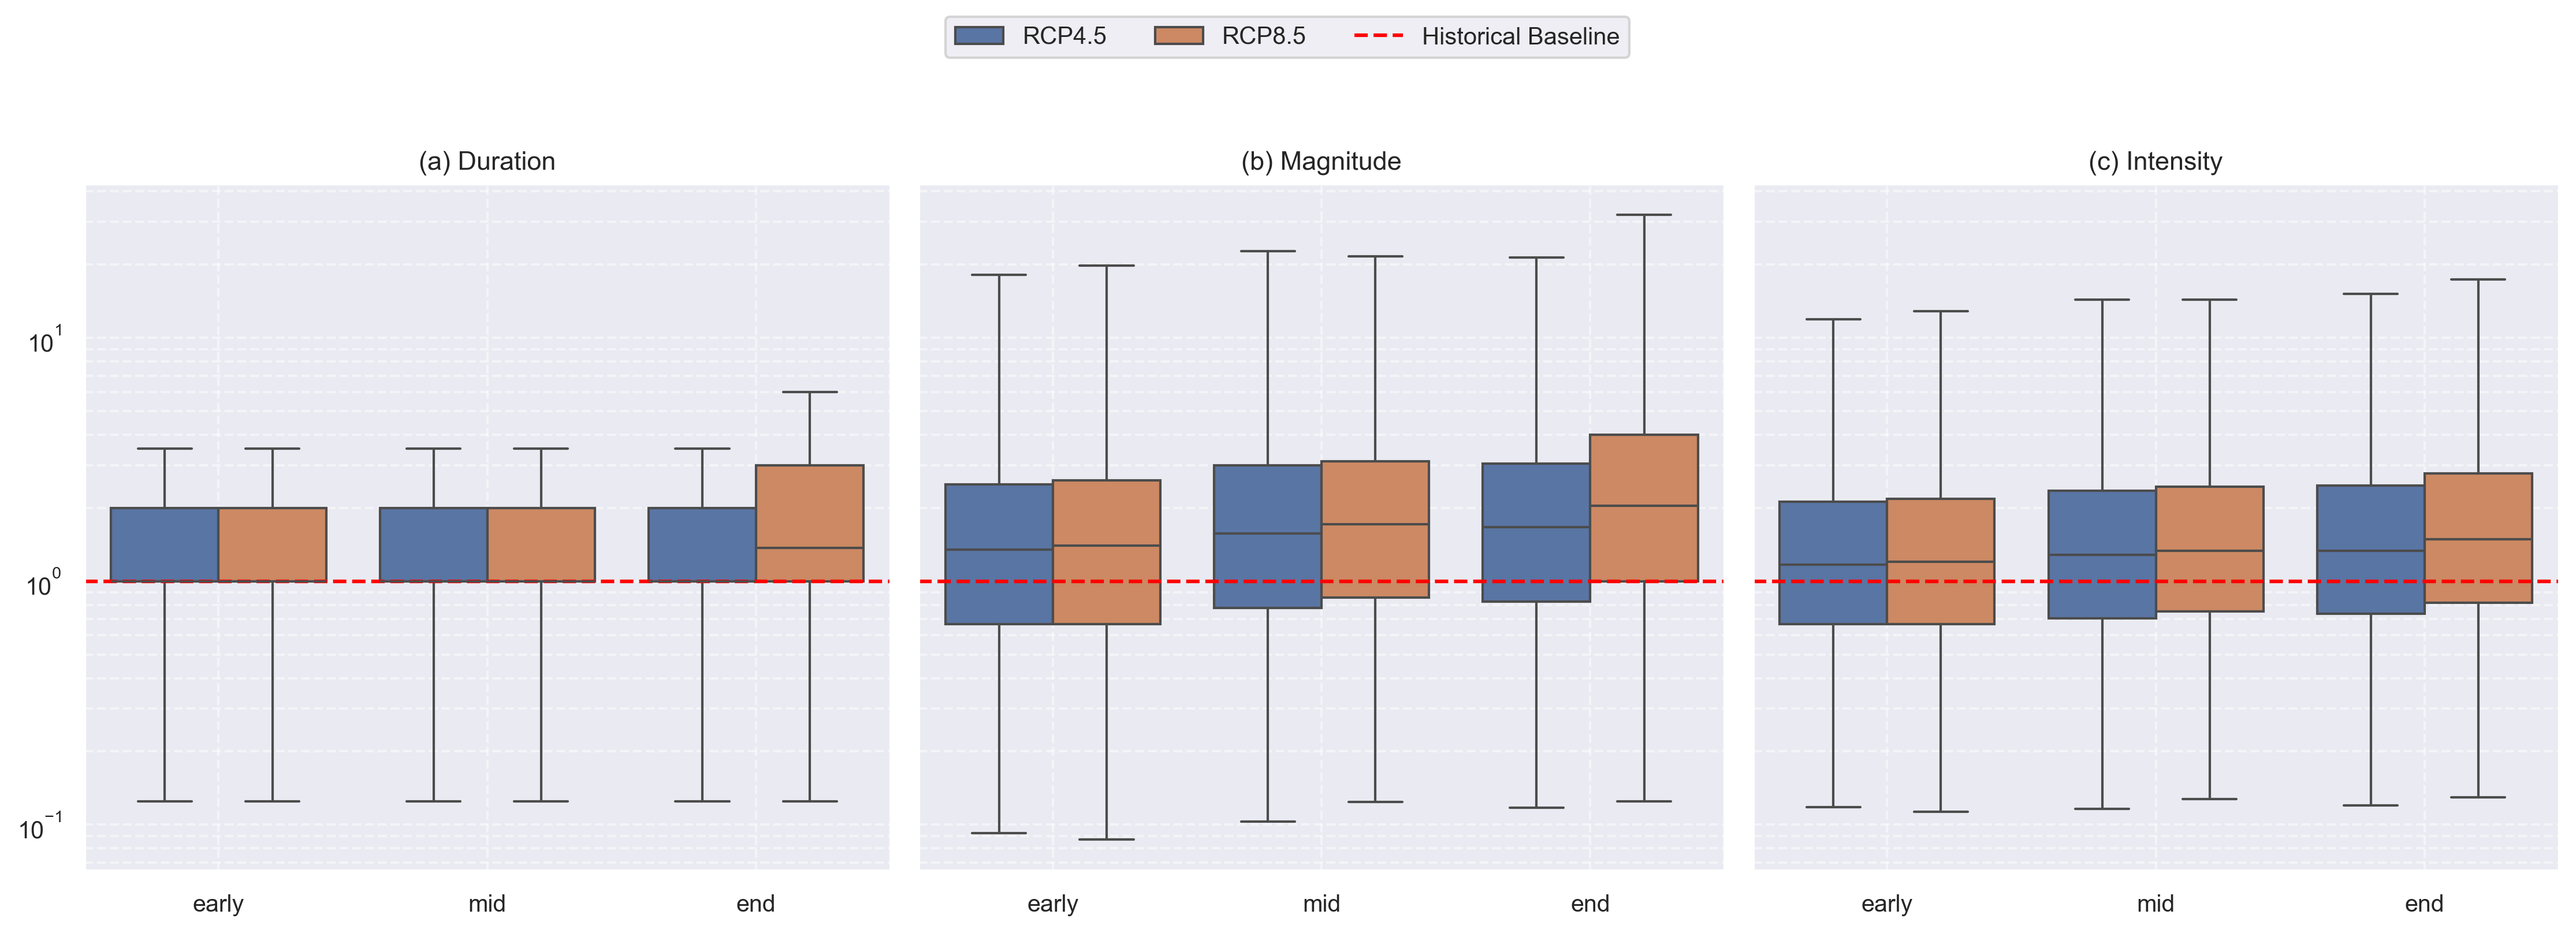
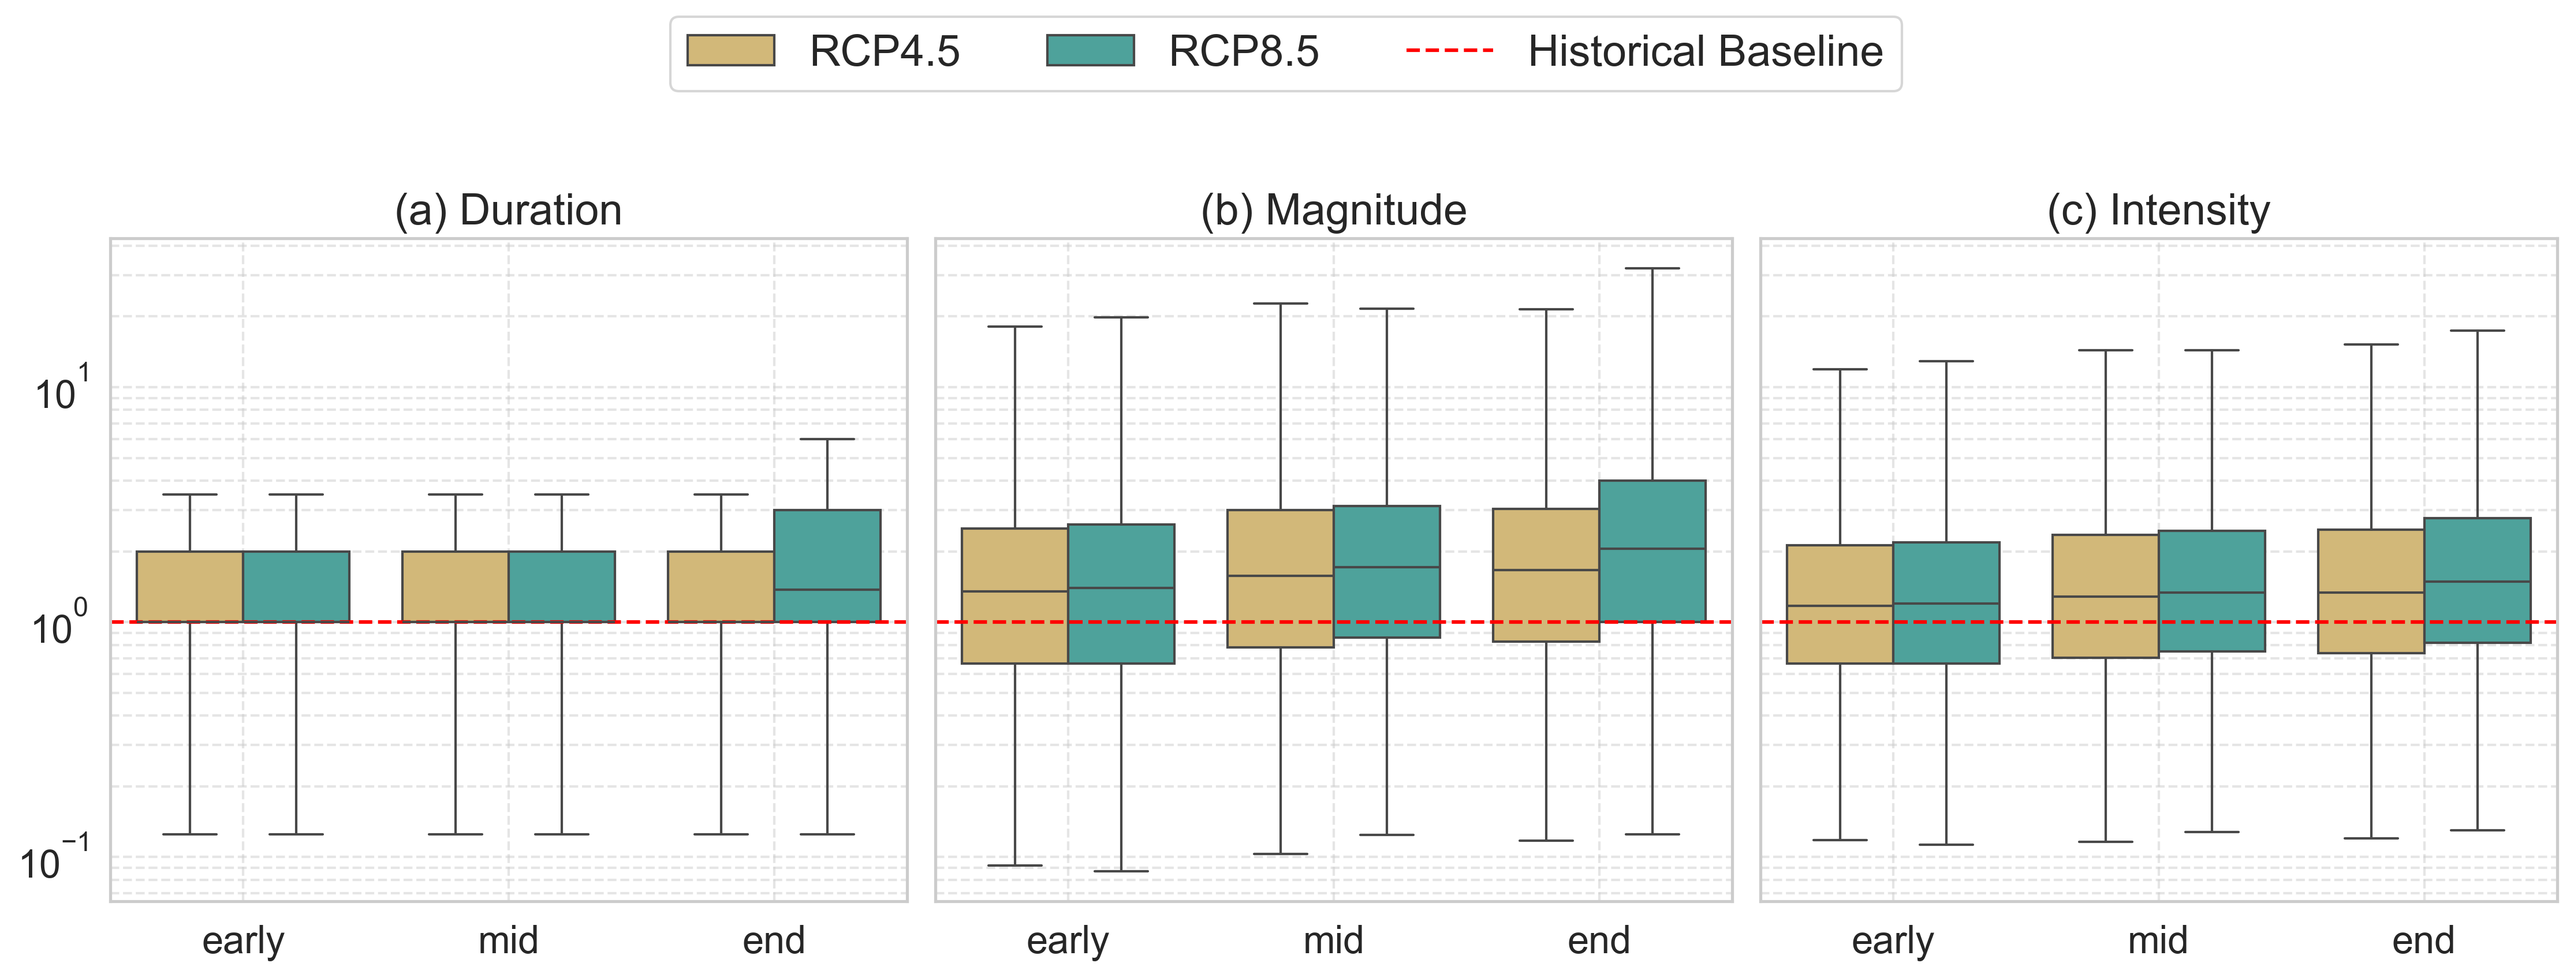
CB palette and improved readability

diff --git a/Scripts/06_plot_from_summaries.py b/Scripts/06_plot_from_summaries.py
@@ -76,11 +76,13 @@ def plot_flood_metric_by_time(df, save_path=None,  dpi =300):
     all_handles = []
     all_labels = []
 
+    palette = {'RCP4.5': '#e1be6a', 'RCP8.5': '#40b0a6'}
+
     for i, (ax, (metric, ylabel)) in enumerate(zip(axes, metrics)):
         # Create boxplot (legend is created here temporarily)
         sns.boxplot(
             data=df, x='time_period', y=metric, hue='scenario',
-            ax=ax, showfliers=False, dodge=True
+            ax=ax, showfliers=False, dodge=True, palette=palette
         )
 
         # Add baseline line
@@ -105,13 +107,15 @@ def plot_flood_metric_by_time(df, save_path=None,  dpi =300):
         ax.set_yscale('log')
         ax.set_xlabel('')
         ax.set_ylabel('')
-        ax.set_title(['(a) Duration', '(b) Magnitude', '(c) Intensity'][i])
+        ax.set_title(['(a) Duration', '(b) Magnitude', '(c) Intensity'][i], fontsize = 18)
         ax.grid(True, which='both', linestyle='--', alpha=0.5)
+        ax.tick_params(axis='x', labelsize=16)
+        ax.tick_params(axis='y', labelsize=16)
 
     # axes[-1].set_xlabel('Time Period')
 
     # Add the one shared global legend
-    fig.legend(all_handles, all_labels, loc='lower center', bbox_to_anchor=(0.5, 1.01), ncol=4, fontsize=10)
+    fig.legend(all_handles, all_labels, loc='lower center', bbox_to_anchor=(0.5, 1.01), ncol=4, fontsize=14)
 
     plt.tight_layout(rect=[0, 0, 1, 0.95])  # Leave space for legend
     
@@ -154,7 +158,8 @@ def plot_flood_metrics_by_season(df, save_path=None,  dpi =300):
     })
 
     # Set up subplots: 3 rows (metrics) x 4 cols (seasons)
-    fig, axes = plt.subplots(3, 4, figsize=(20, 12), sharey='row')
+    fig, axes = plt.subplots(3, 4, figsize=(20, 12), sharey='row', sharex = True)
+    palette = {'RCP4.5': '#e1be6a', 'RCP8.5': '#40b0a6'}
 
     for row_idx, (metric, ylabel) in enumerate(metrics):
         for col_idx, season in enumerate(season_order):
@@ -168,7 +173,7 @@ def plot_flood_metrics_by_season(df, save_path=None,  dpi =300):
                 hue='scenario',
                 ax=ax,
                 showfliers=False,
-                dodge=True
+                dodge=True, palette=palette
             )
 
             ax.axhline(1, color='red', linestyle='--', label='Historical Baseline')
@@ -177,7 +182,7 @@ def plot_flood_metrics_by_season(df, save_path=None,  dpi =300):
 
             # Labeling
             if col_idx == 0:
-                ax.set_ylabel(ylabel)
+                ax.set_ylabel(ylabel, fontsize =16)
             else:
                 ax.set_ylabel('')
 
@@ -187,7 +192,7 @@ def plot_flood_metrics_by_season(df, save_path=None,  dpi =300):
                 ax.set_xlabel('')
 
             if row_idx == 0:
-                ax.set_title(f'{season}')
+                ax.set_title(f'{season}', fontsize =16)
 
             # Remove subplot legends
             if ax.get_legend():
@@ -241,7 +246,7 @@ srex_with_flood_metrics = srex_gdf.merge(flood_region_summary, on=['Name'], how=
 
 # Plot settings
 vmin, vmax = 0.5, 2.5
-cmap = 'inferno_r'
+cmap = 'plasma_r'
 scenarios = flood_region_summary['scenario'].unique()
 
 fig, axes = plt.subplots(3, len(scenarios), figsize=(16, 9),
@@ -453,11 +458,13 @@ def plot_drought_metric_by_time(df, save_path=None, dpi =300):
     all_handles = []
     all_labels = []
 
+    palette = {'RCP4.5': '#e1be6a', 'RCP8.5': '#40b0a6'}
+
     for i, (ax, (metric, ylabel)) in enumerate(zip(axes, metrics)):
         # Create boxplot (legend is created here temporarily)
         sns.boxplot(
             data=df, x='time_period', y=metric, hue='scenario',
-            ax=ax, showfliers=False, dodge=True
+            ax=ax, showfliers=False, dodge=True, palette=palette
         )
 
         # Add baseline line
@@ -482,13 +489,15 @@ def plot_drought_metric_by_time(df, save_path=None, dpi =300):
         ax.set_yscale('log')
         ax.set_xlabel('')
         ax.set_ylabel('')
-        ax.set_title(['(a) Duration', '(b) Magnitude', '(c) Intensity'][i])
+        ax.set_title(['(a) Duration', '(b) Magnitude', '(c) Intensity'][i], fontsize =18)
         ax.grid(True, which='both', linestyle='--', alpha=0.5)
+        ax.tick_params(axis='x', labelsize=16)
+        ax.tick_params(axis='y', labelsize=16)
 
     # axes[-1].set_xlabel('Time Period')
 
     # Add the one shared global legend
-    fig.legend(all_handles, all_labels, loc='lower center', bbox_to_anchor=(0.5, 1.01), ncol=4, fontsize=10)
+    fig.legend(all_handles, all_labels, loc='lower center', bbox_to_anchor=(0.5, 1.01), ncol=4, fontsize=18)
 
     plt.tight_layout(rect=[0, 0, 1, 0.95])  # Leave space for legend
     
@@ -497,7 +506,7 @@ def plot_drought_metric_by_time(df, save_path=None, dpi =300):
         
     plt.show()
 
-
+sns.set_style("whitegrid")
 plot_drought_metric_by_time(drought_summary_norm, save_path = os.path.join(outdir, 'Figure4.png'))
 
 
@@ -526,7 +535,8 @@ def plot_drought_metrics_by_season(df, save_path=None, dpi =300):
     })
 
     # Set up subplots: 3 rows (metrics) x 4 cols (seasons)
-    fig, axes = plt.subplots(3, 4, figsize=(20, 12), sharey='row')
+    fig, axes = plt.subplots(3, 4, figsize=(20, 12), sharey='row', sharex=True)
+    palette = {'RCP4.5': '#e1be6a', 'RCP8.5': '#40b0a6'}
 
     for row_idx, (metric, ylabel) in enumerate(metrics):
         for col_idx, season in enumerate(season_order):
@@ -540,16 +550,19 @@ def plot_drought_metrics_by_season(df, save_path=None, dpi =300):
                 hue='scenario',
                 ax=ax,
                 showfliers=False,
-                dodge=True
+                dodge=True,
+                palette=palette
             )
 
             ax.axhline(1, color='red', linestyle='--', label='Historical Baseline')
             ax.set_yscale('log')
             ax.grid(True, which='both', linestyle='--', alpha=0.5)
+            ax.tick_params(axis='x', labelsize=16)
+            ax.tick_params(axis='y', labelsize=16)
 
             # Labeling
             if col_idx == 0:
-                ax.set_ylabel(ylabel)
+                ax.set_ylabel(ylabel, fontsize = 16)
             else:
                 ax.set_ylabel('')
 
@@ -559,7 +572,7 @@ def plot_drought_metrics_by_season(df, save_path=None, dpi =300):
                 ax.set_xlabel('')
 
             if row_idx == 0:
-                ax.set_title(f'{season}')
+                ax.set_title(f'{season}', fontsize =16)
 
             # Remove subplot legends
             if ax.get_legend():
@@ -608,7 +621,7 @@ srex_with_drought_metrics = srex_gdf.merge(drought_region_summary, on='Name', ho
 
 # Plot settings
 vmin, vmax = 0.0, 3.6
-cmap = 'inferno_r'
+cmap = 'plasma_r'
 scenarios = drought_region_summary['scenario'].unique()
 
 fig, axes = plt.subplots(3, len(scenarios), figsize=(16, 9),
